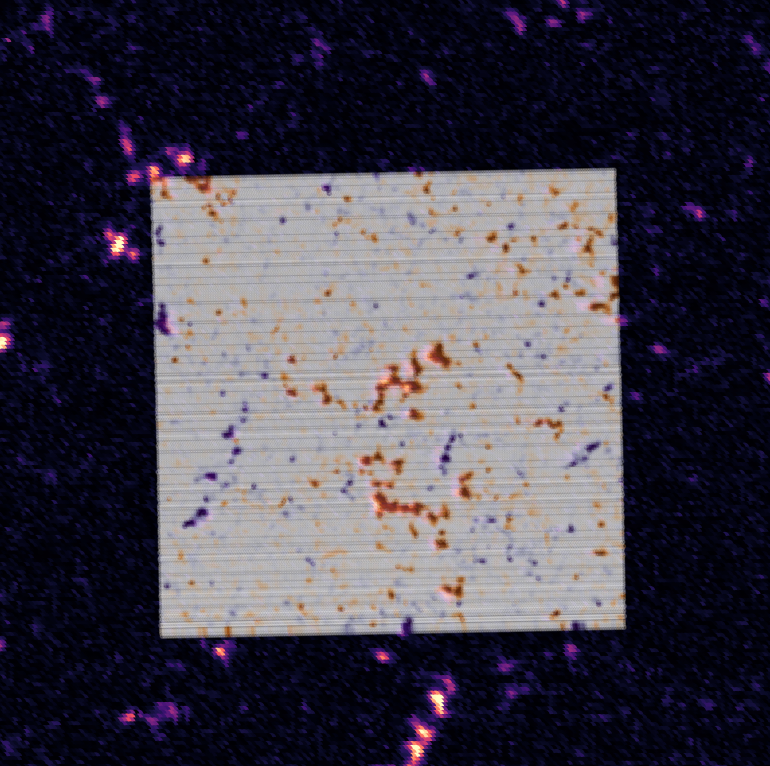
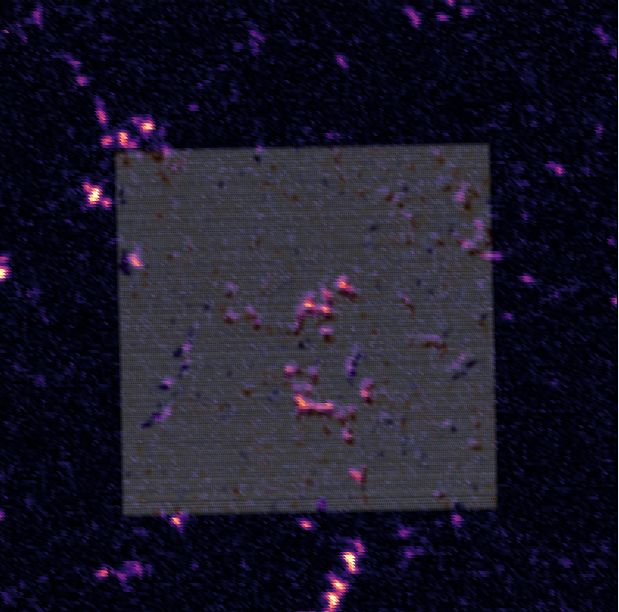
Fixed paths. Added functionality to do an initial rough fit using just one HMI map, then a final fit using multiple co-temporal maps. Updated picture (to be more transparent),

diff --git a/data_utils.py b/data_utils.py
@@ -255,8 +255,8 @@ def fetch_data(path_to_slits,
         dateobs_i = Time(dateobs_i)
         closest_index.append(np.argmin(abs((dateobs_i - hmi_results['vso']['Start Time']).value)))
 
-    # fetch the data TODO: try to update this to only use data that's being used, don't download first/last if not needed, also to delete data afterwards.
-    path = path_to_HMI + '/{instrument}/align/'
+    # fetch the data
+    path = path_to_HMI + '/data/{instrument}/align/'
 
     Fido.fetch(hmi_results[0], path=path)
 
@@ -514,8 +514,27 @@ def run(path_to_slits,
 
     print('Fido successfully downloaded HMI data.')
 
-    parameters = [26, 31, 0.983, 0.99, 0]
+    print(20*'-')
+    print('Performing Initial Rough Alignment')
+
+    p0 = [27, 31, 1, 1, 0]
+    closest_index0 = N_slits * [1]
     bounds = [(-40, 40), (-40, 40), (0.9, 1.1), (0.9, 1.1), (0, 0)]
+
+    converged, parameters = minimize(p0,
+                                     slits_sorted,
+                                     path_to_slits,
+                                     all_HMI_data,
+                                     hmix,
+                                     hmiy,
+                                     hinode_B,
+                                     closest_index0,
+                                     bounds)
+
+    print('Initial Rough Alignment Complete.')
+    print('Estimate of parameters: ' + str(parameters))
+    print(20*'-')
+    print('Performing Final Fit')
 
     converged, parameters = minimize(parameters,
                                      slits_sorted,
@@ -527,6 +546,7 @@ def run(path_to_slits,
                                      closest_index,
                                      bounds)
     print('Minimized: ' + str(converged))
+    print('Final Parameters: ' + str(parameters))
 
     if not converged:
         raise Exception('Failed to Solve. Exiting.')
